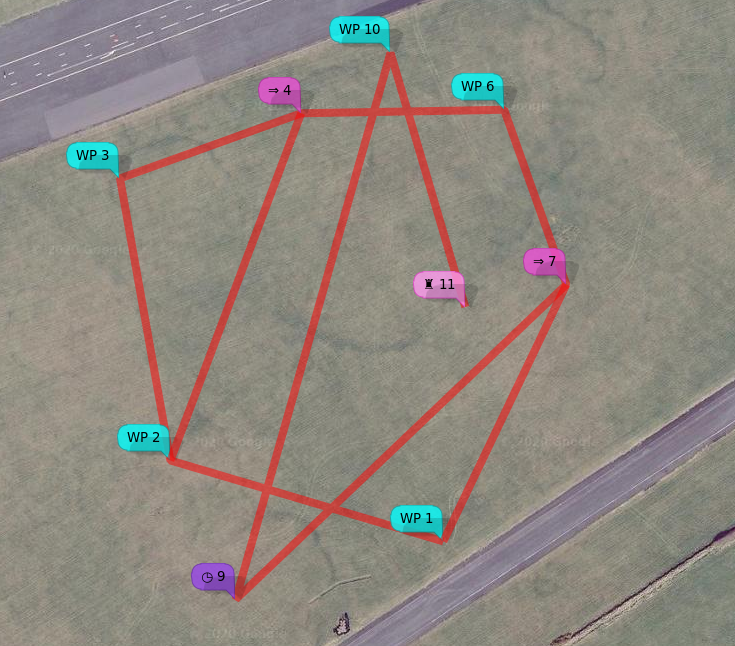
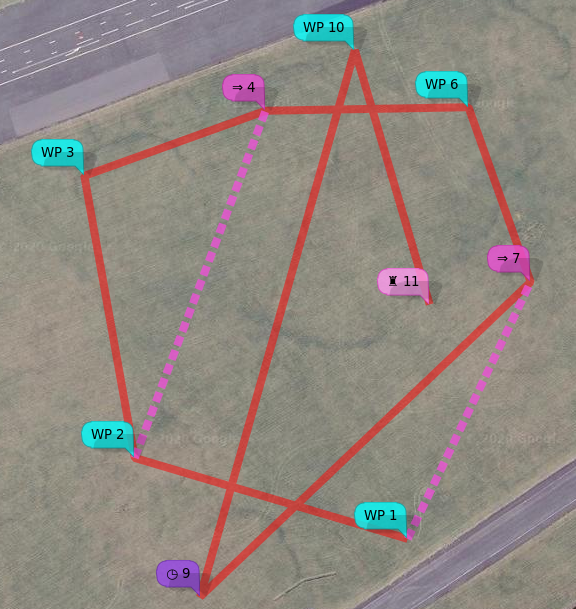
update JUMP description

diff --git a/MSP-Navigation-Messages.md b/MSP-Navigation-Messages.md
@@ -51,7 +51,7 @@ The following example, using the MW XML (ezgui, inav configurator, mwp) format, 
   <missionitem no="11" action="LAND" lat="54.354052100964488" lon="-4.5178091504726012" alt="60" parameter1="0" parameter2="0" parameter3="0"></missionitem>
 </mission>
 ```
-Mission points 5 and 8 are JUMP; they have no location as they affect the current location (the previous WP) and cause an action. 
+Mission points 5 and 8 are JUMP; they have no location as they affect the current location (the previous WP) and cause an action.
 * After WP 4 (JUMP at 5), the vehicle will proceed to WP 2 (`parameter1 = 2`); it will do this twice (`parameter2 = 2`). Then it will proceed to WP 6.
 * After WP 7 (JUMP at 8), the vehicle will proceed to WP 1 (`parameter1 = 1`); it will do this once (`parameter2 = 1`). Then it will proceed to WP 9.
 * The second JUMP (8) will cause the first jump (5) to be re-executed.
@@ -95,7 +95,25 @@ There is a video animation of the flight in [a short youtube video](https://yout
 A number of the WP types (JUMP, SET_POI, SET_HEAD, RTH) act as modifiers to the current location (i.e. the previous WP), as follows:
 
 ### JUMP
-JUMP facilitates adding loop to mission, the first parameter is the WP to jump to, which must be prior to the JUMP WP, and the second parameter is the number of times the JUMP is executed. A parameter2 value of `-1` means JUMP indefinitely (i.e. the pilot must eventually manually abort the mission and take control).
+JUMP facilitates adding loop to mission, the first parameter is the WP to jump to, and the second parameter is the number of times the JUMP is executed. A parameter2 value of `-1` means JUMP indefinitely (i.e. the pilot must eventually manually abort the mission and take control). For MultiWii, the jump target (parameter 1) must be prior to the jump WP, for inav, forward and backward jumps are permitted. In general, forward jumps are less useful and will usually need a backward jump to be useful.
+
+In the following example of a forward jump, WP #5 (POSHOLD_TIME) is visited exactly once.
+![Jump Forward](images/forward-jump-mission.png)
+
+```
+<?xml version="1.0" encoding="utf-8"?>
+<mission>
+  <missionitem no="1" action="WAYPOINT" lat="54.353504451478102" lon="-4.5171693008103739" alt="50" parameter1="0" parameter2="0" parameter3="0"></missionitem>
+  <missionitem no="2" action="WAYPOINT" lat="54.353290963012334" lon="-4.5186271961455091" alt="50" parameter1="0" parameter2="0" parameter3="0"></missionitem>
+  <missionitem no="3" action="WAYPOINT" lat="54.354462866400432" lon="-4.519133424449862" alt="50" parameter1="0" parameter2="0" parameter3="0"></missionitem>
+  <missionitem no="4" action="JUMP" lat="0" lon="0" alt="0" parameter1="6" parameter2="2" parameter3="0"></missionitem>
+  <missionitem no="5" action="POSHOLD_TIME" lat="54.35511281066394" lon="-4.5180071708842604" alt="50" parameter1="30" parameter2="0" parameter3="0"></missionitem>
+  <missionitem no="6" action="WAYPOINT" lat="54.354418702382176" lon="-4.5170547858197763" alt="50" parameter1="0" parameter2="0" parameter3="0"></missionitem>
+  <missionitem no="7" action="JUMP" lat="0" lon="0" alt="0" parameter1="1" parameter2="3" parameter3="0"></missionitem>
+  <missionitem no="8" action="WAYPOINT" lat="54.353913541022997" lon="-4.5182771029460111" alt="50" parameter1="0" parameter2="0" parameter3="0"></missionitem>
+  <missionitem no="9" action="RTH" lat="0" lon="0" alt="0" parameter1="0" parameter2="0" parameter3="0"></missionitem>
+</mission>
+```
 
 ### RTH
 The craft returns to the home location.
@@ -247,7 +265,7 @@ Landing is in progress, check attitude if possible. </td>
 
 # MSP_NAV_CONFIG (MW)
 
-The following data are returned from a MSP_NAV_CONFIG message. Values are from multiwii config.h. Values may also be set by MSP_SET_NAV_CONFIG. 
+The following data are returned from a MSP_NAV_CONFIG message. Values are from multiwii config.h. Values may also be set by MSP_SET_NAV_CONFIG.
 
 <table>
 <thead>
